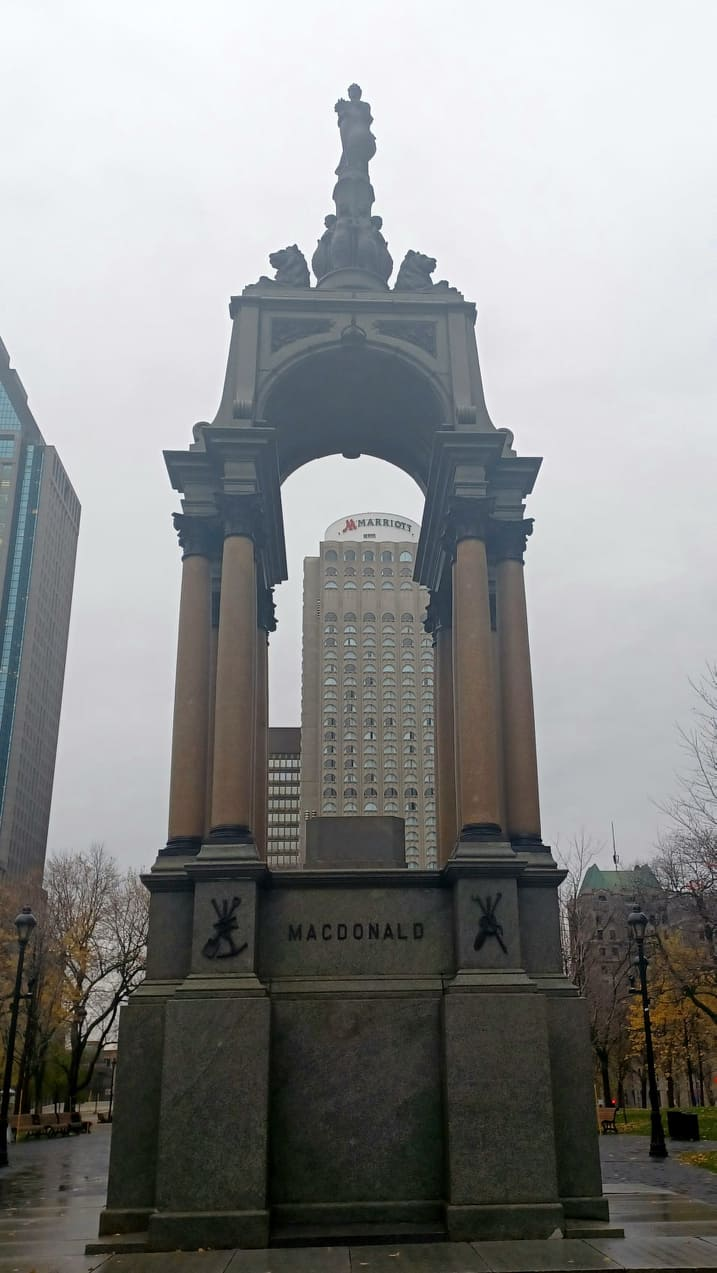
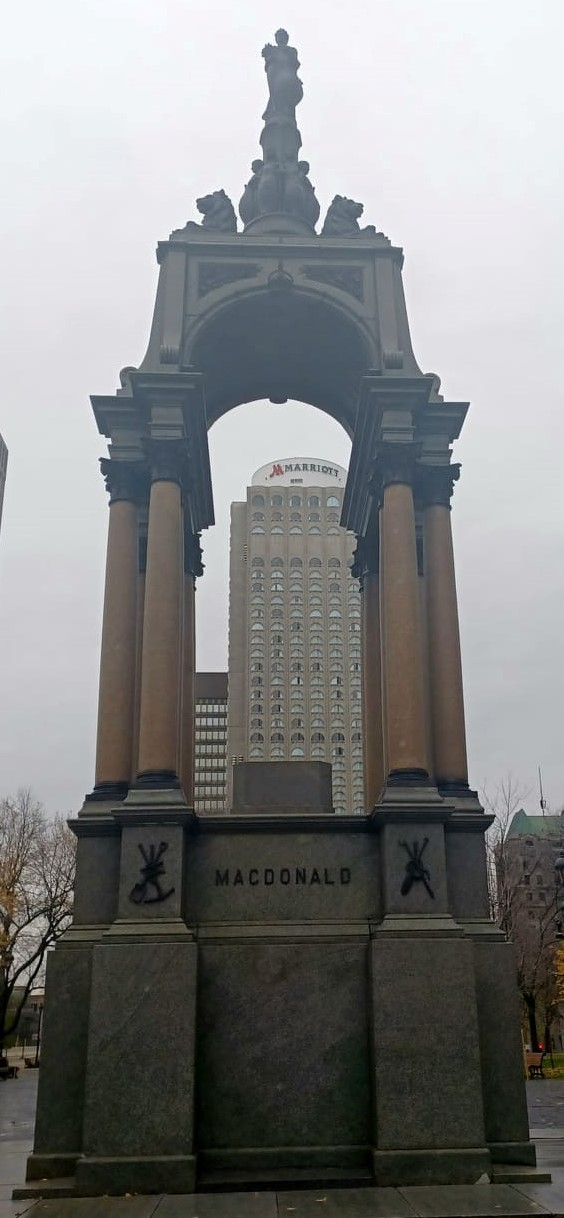
ajout photos

diff --git a/blogue/2021-11-19.html b/blogue/2021-11-19.html
@@ -154,6 +154,12 @@
         
     </figure>
 
+    <figure> 
+        <img class='img-fluid imgCenter rounded' src='../img/blogue/ReineVictoria_peinture_rouge.jpg' alt="Second Monument de la reine Victoria, arosé de peinture rouge." width='400' height="auto"> <figcaption style='text-align:left'>Le monument la reine a été vandalisé à maintes reprises. Ici, une photographie de l'oeuvre arrosée de peinture rouge, en mars 2021.<br>Photographie prise par No Borders Media.</figcaption>
+        
+    </figure>
+
+
     
     <h4>Quelles pistes de solutions pour corriger ces monuments?</h4>
     
@@ -164,7 +170,18 @@
         
     </figure>
 
+    <figure> 
+        <img class='img-fluid imgCenter rounded' src='../img/blogue/JohnAMacdonald_peinture_orange.jpg' alt="Monument à Sir Jonh A. Macdonald, avant son déboulonnement, arrosé de peinture orange." width='400' height="auto"> <figcaption style='text-align:left'> Le mécontentement lié au monument de Macdonald s'est d'abord fait sentir au moyen d'inscriptions et de peinture lancée sur la statue.<br>Photographie prise par No Borders Media.</figcaption>
+        
+    </figure>
+
+<figure> 
+        <img class='img-fluid imgCenter rounded' src='../img/blogue/Monument_JonhAMacdonald_vide.jpg' alt="Monument à Sir Jonh A. Macdonald après son déboulonnement." width='400' height="auto"> <figcaption style='text-align:left'> Aujourd'hui, le monument présente une imposante base...vide.</figcaption>
+        
+    </figure>
+
     
+
     <p>Lors du prochain billet, je continuerai à explorer le monument, en m'attardant, cette fois, à des formes de commémoration différentes, qui explorent diverses façons d'aborder le monument.</p>
 
 
